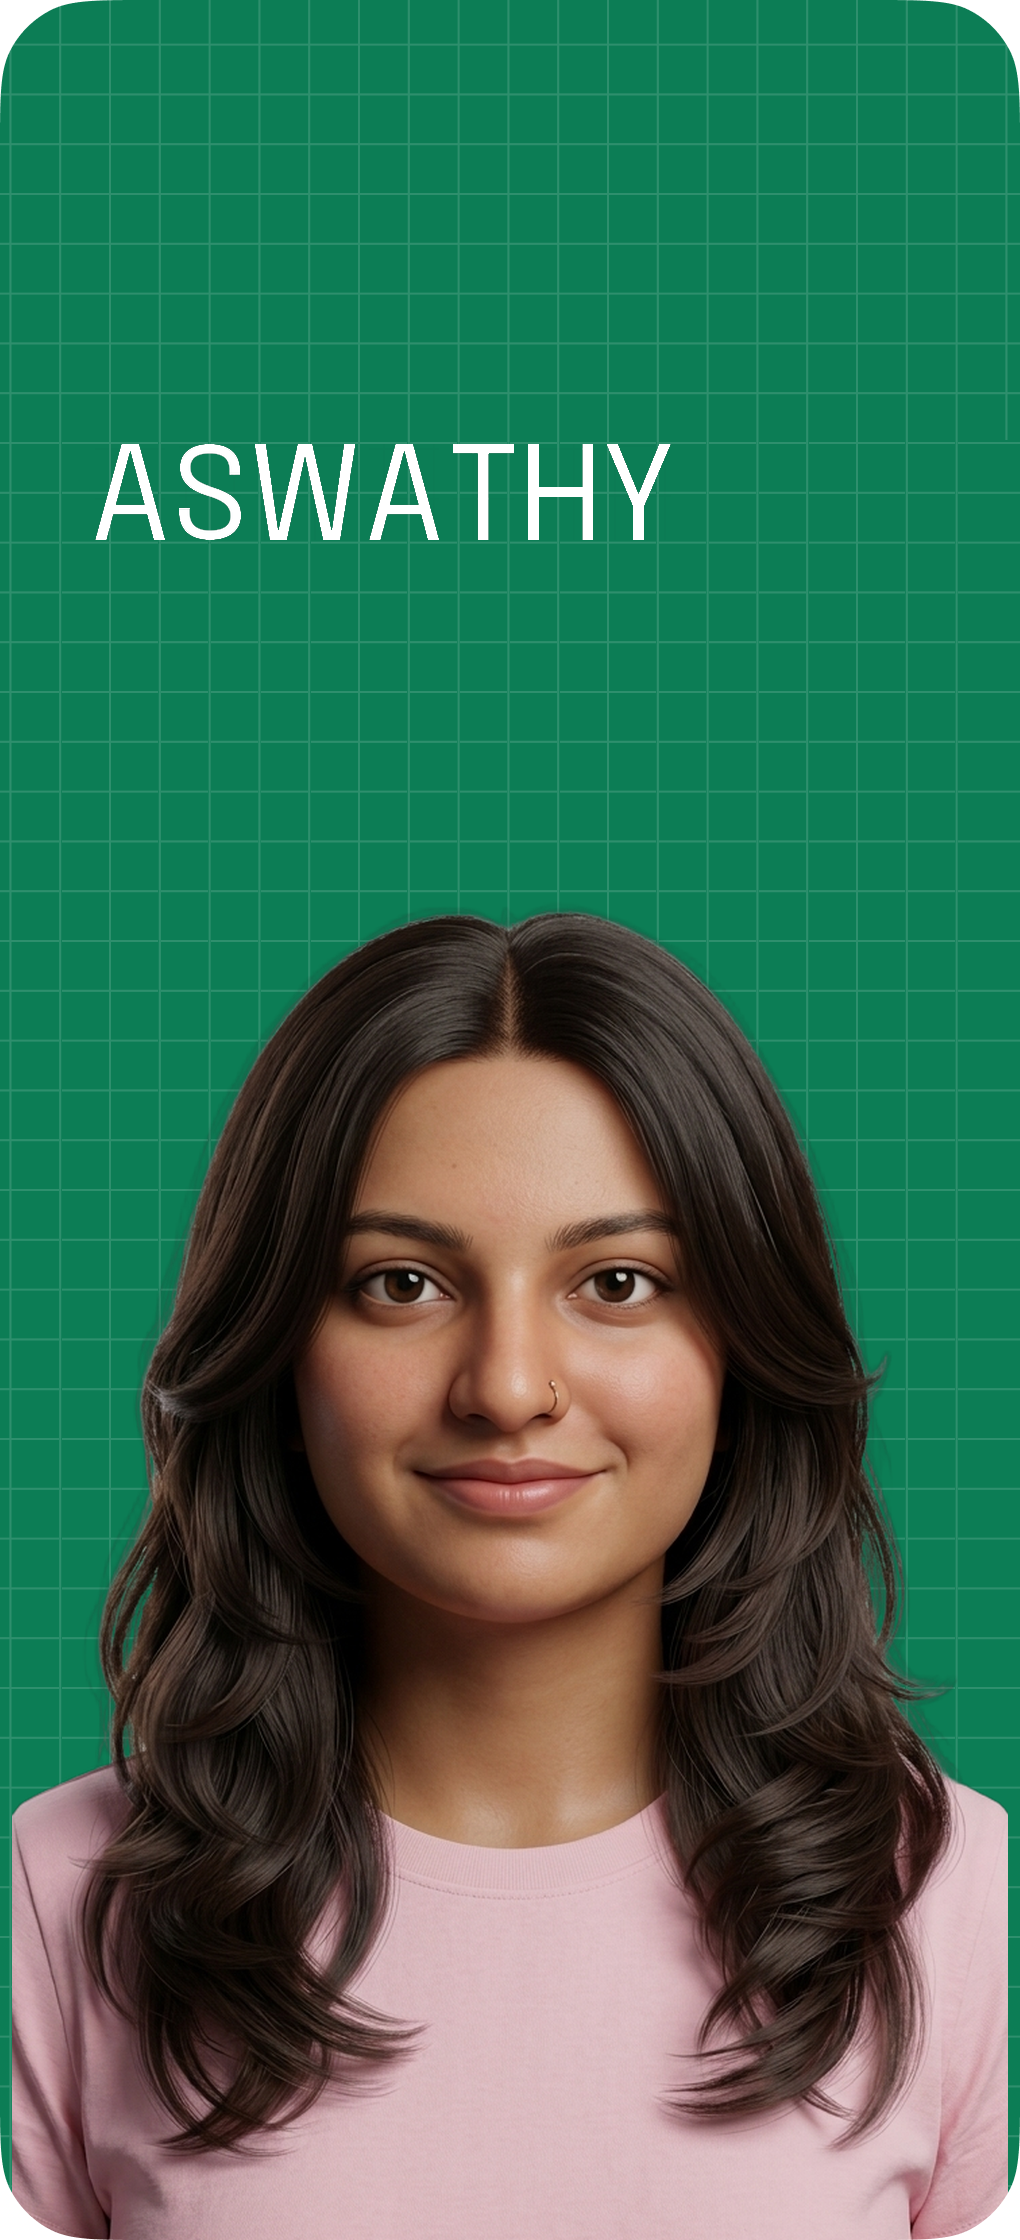
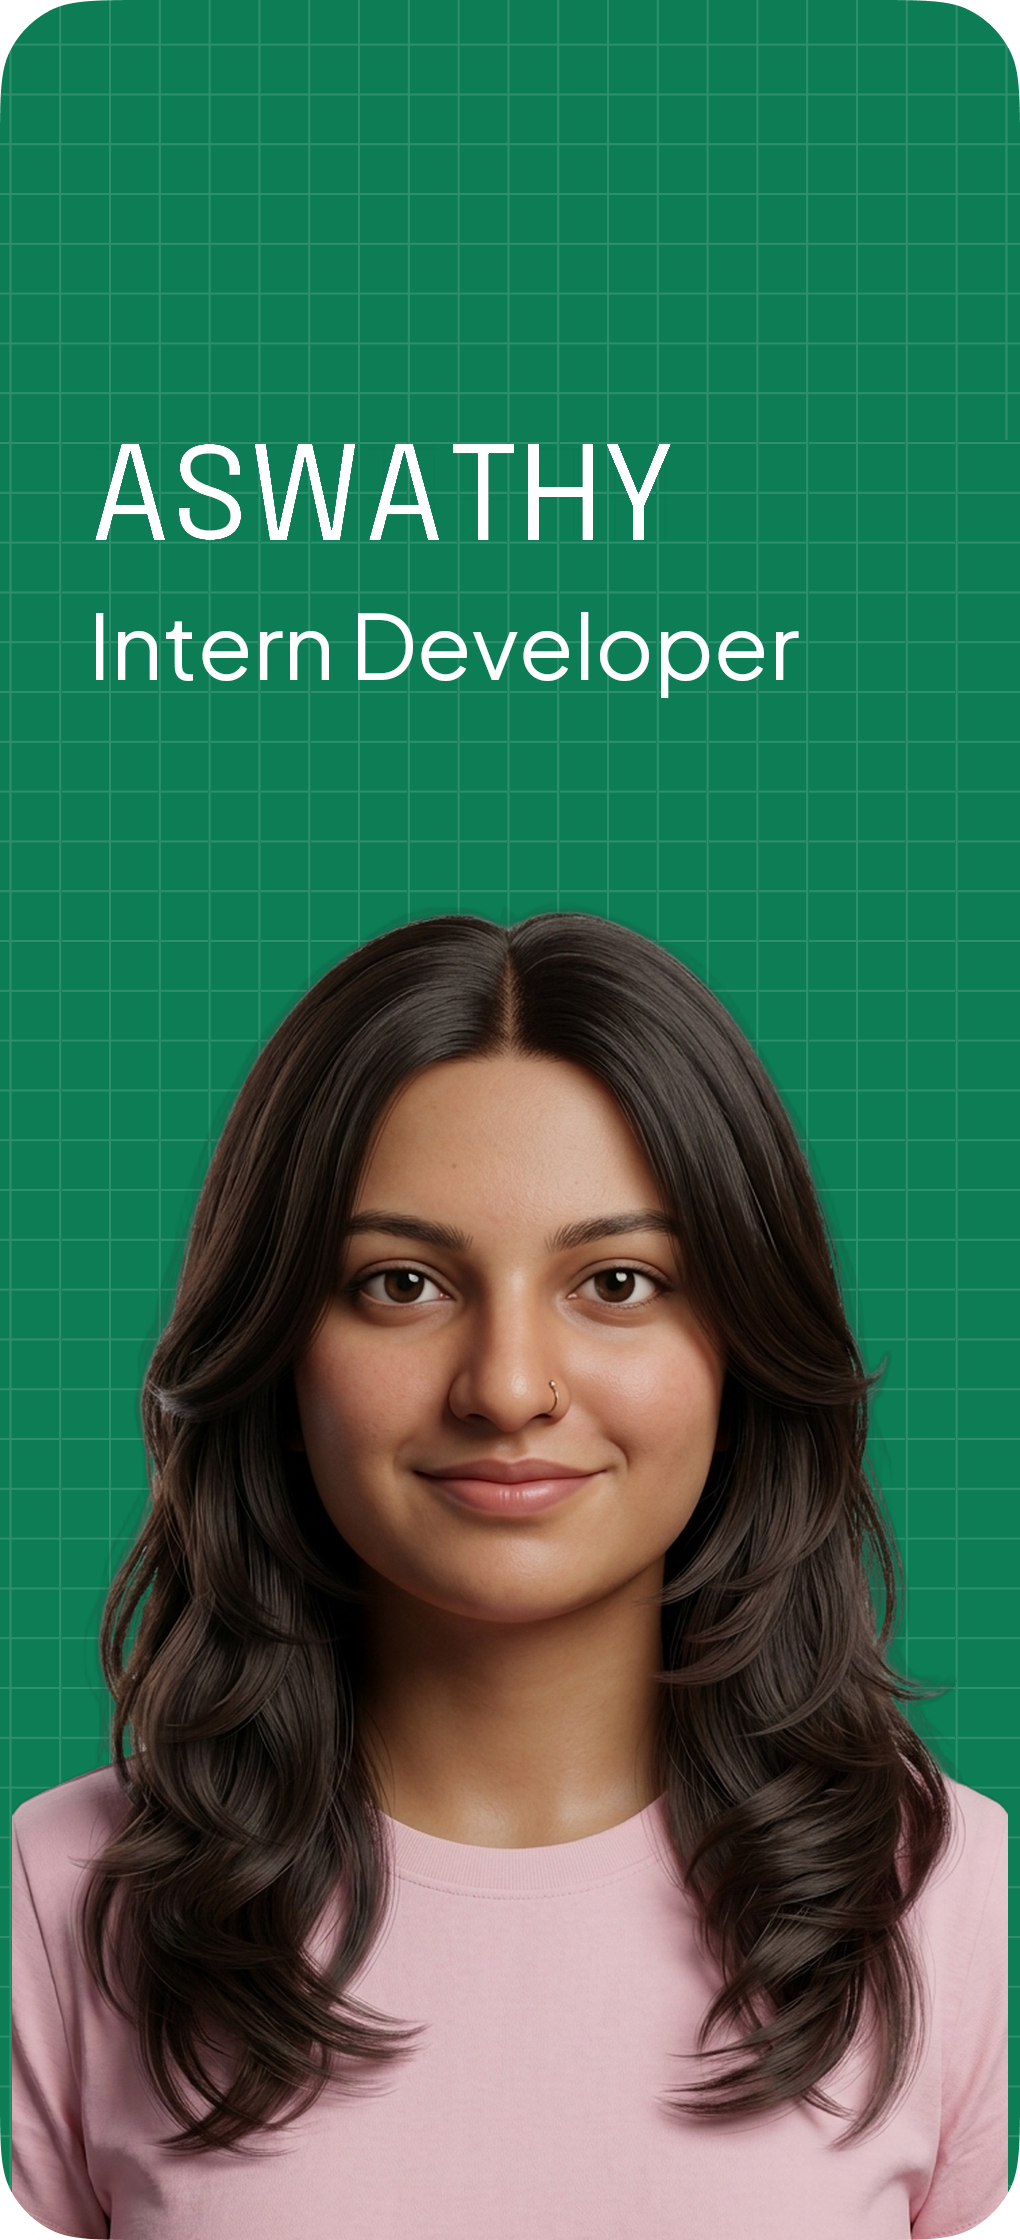
role updated

Changed region(s): [[0.0912, 0.25, 0.7902, 0.3125]]

diff --git a/src/pageComponent/Aboutus/index.jsx b/src/pageComponent/Aboutus/index.jsx
@@ -44,9 +44,9 @@ const AboutPage = ({ onContactClick }) => {
     { name: "NAVEEN RAJ", role: "Web Developer" },
     { name: "RUTUJA", role: "Operations" },
     { name: "AISHWARYA", role: "performance marketer" },
-    { name: "ABI", role: "" },
-    { name: "KOUSHIK", role: "" },
-    { name: "ASWATHY", role: "" },
+    { name: "ABHI", role: "Editor" },
+    { name: "KOUSHIK", role: "Social Media" },
+    { name: "ASWATHY", role: "Intern Developer" },
   ];
 
   const handleMemberClick = (index) => {

diff --git a/src/components/TeamCard.jsx b/src/components/TeamCard.jsx
@@ -8,6 +8,7 @@ const TeamCard = ({ name, role, isSlider = false }) => {
         "alam": "aalam",
         "vignesh rajan": "vignesh rajan",
         "aiswarya": "aishwarya",
+        "abhi": "abi",
     };
     const fileName = nameMap[cleanName] || cleanName;
     const imagePath = `/assets/team/teamscroll/${fileName}.webp`;

diff --git a/src/components/TeamCircularCarousel.jsx b/src/components/TeamCircularCarousel.jsx
@@ -12,6 +12,7 @@ const cleanImageName = (name) => {
     "alam": "aalam",
     "vignesh rajan": "vignesh rajan",
     "aiswarya": "aishwarya",
+    "abhi": "abi",
   };
   return nameMap[clean] || clean;
 };
